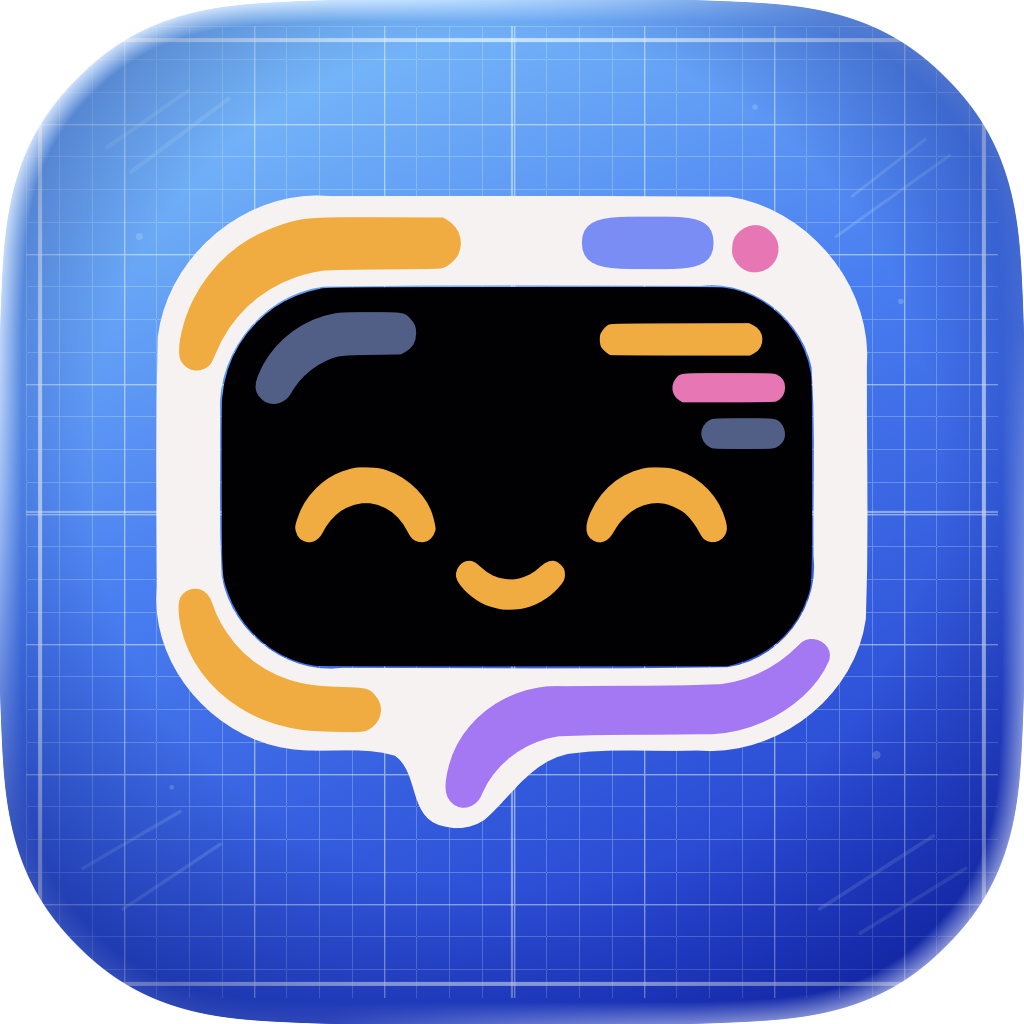
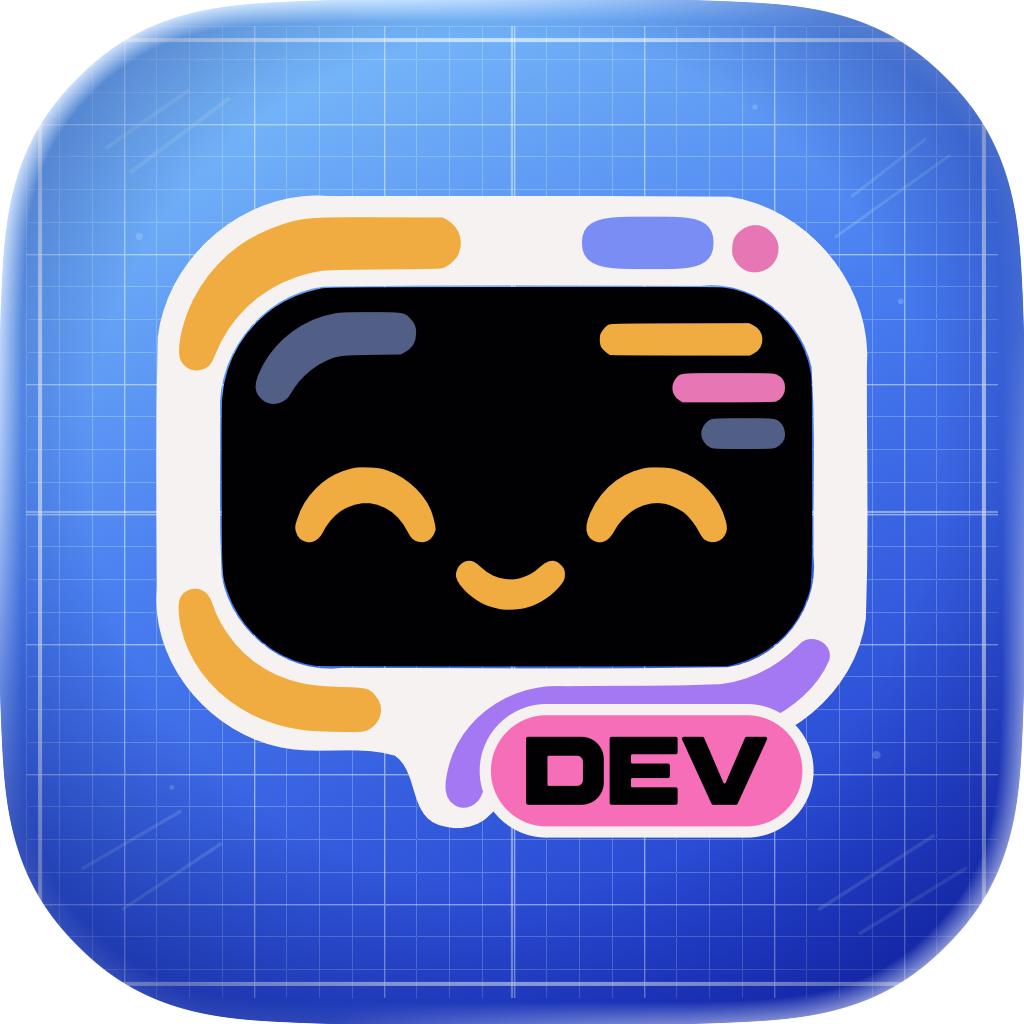
feat(desktop): a development shell says it is Dev
A shell built from source looked exactly like the installed app. A
development shell (any build but Release, or one started with --dev) now
has the stage Dev:

- its window icon is the dev icon, now with a DEV sticker in the HAL C2
  font, and on Linux it runs as hal-c2-dev with its own hidden desktop
  entry, since Wayland docks find a window's icon through its app id
- Environment identification shows "DEV" after the wordmark (Artwork) or
  a Dev pill (Version pill), as it already did for a Nightly MC
- the window title reads "HAL-C2 (Dev)", or "HAL-C2 (Nightly)"

Changed region(s): [[0.4688, 0.6875, 0.8125, 0.8438]]

diff --git a/apps/desktop-qt/qml/HalC2/Bricks/HalC2Wordmark.qml b/apps/desktop-qt/qml/HalC2/Bricks/HalC2Wordmark.qml
@@ -3,17 +3,20 @@ import QtQuick.Shapes
 
 // The HAL-C2 logotype (assets/brand/hal-c2-logotype.svg): "HAL-" and "C2" set
 // in the HAL C2 font and outlined, filled as a Shape so it scales crisply.
-// `size` is its height; the width follows the mark.
+// `size` is its height; the width follows the mark. `dev` adds "DEV" in the
+// same font, the mark of a development shell (StageController).
 Item {
     id: mark
 
     property real size: 10
+    property bool dev: false
     property color halColor: "#fba919"
     property color c2Color: "#768efb"
-    // The outlines are in font units: 4482 wide, cap height 700.
+    property color devColor: "#f76eb8"
+    // The outlines are in font units: 4482 wide (7244 with DEV), cap height 700.
     readonly property real unit: size / 700
 
-    implicitWidth: 4482 * unit
+    implicitWidth: (dev ? 7244 : 4482) * unit
     implicitHeight: size
     Accessible.ignored: true
 
@@ -39,6 +42,25 @@ Item {
 
             PathSvg {
                 path: "M3682 175Q3682 183 3676 189Q3670 195 3662 195H3187Q3162 195 3144.5 212.5Q3127 230 3127 255V445Q3127 470 3144.5 487.5Q3162 505 3187 505H3662Q3670 505 3676 511Q3682 517 3682 525V680Q3682 688 3676 694Q3670 700 3662 700H3142Q3047 700 2979.5 632.5Q2912 565 2912 470V230Q2912 135 2979.5 67.5Q3047 0 3142 0H3662Q3670 0 3676 6Q3682 12 3682 20ZM3742 20Q3742 12 3748 6Q3754 0 3762 0H4332Q4394 0 4438 44Q4482 88 4482 150V255Q4482 326 4432 375.5Q4382 425 4312 425H4002Q3986 425 3974 436.5Q3962 448 3962 465V480Q3962 496 3974 508Q3986 520 4002 520H4462Q4470 520 4476 526Q4482 532 4482 540V680Q4482 688 4476 694Q4470 700 4462 700H3762Q3754 700 3748 694Q3742 688 3742 680V445Q3742 374 3792 324.5Q3842 275 3912 275H4222Q4238 275 4250 263.5Q4262 252 4262 235V220Q4262 204 4250 192Q4238 180 4222 180H3762Q3754 180 3748 174Q3742 168 3742 160Z"
+            }
+        }
+    }
+
+    Shape {
+        objectName: "devMark"
+        visible: mark.dev
+        preferredRendererType: Shape.CurveRenderer
+        transform: Scale {
+            xScale: mark.unit
+            yScale: mark.unit
+        }
+
+        ShapePath {
+            strokeWidth: -1
+            fillColor: mark.devColor
+
+            PathSvg {
+                path: "M4982 493C4982 500 4987 505 4994 505L5287 505C5320 505 5347 478 5347 445L5347 255C5347 222 5320 195 5287 195L4994 195C4987 195 4982 200 4982 207L4982 493ZM4762 20C4762 9 4771 0 4782 0L5332 0C5459 0 5562 103 5562 230L5562 470C5562 597 5459 700 5332 700L4782 700C4771 700 4762 691 4762 680L4762 20ZM5642 700C5631 700 5622 691 5622 680L5622 20C5622 9 5631 0 5642 0L6302 0C6313 0 6322 9 6322 20L6322 160C6322 171 6313 180 6302 180L5854 180C5847 180 5842 185 5842 192L5842 263C5842 270 5847 275 5854 275L6222 275C6233 275 6242 284 6242 295L6242 405C6242 416 6233 425 6222 425L5854 425C5847 425 5842 430 5842 437L5842 508C5842 515 5847 520 5854 520L6302 520C6313 520 6322 529 6322 540L6322 680C6322 691 6313 700 6302 700L5642 700ZM6368 28C6367 25 6366 23 6366 20C6366 9 6374 0 6386 0L6577 0C6585 0 6592 5 6595 12L6794 474C6798 484 6812 484 6816 474L7015 12C7018 5 7025 0 7033 0L7224 0C7236 0 7244 9 7244 20C7244 23 7243 25 7242 28L6940 688C6937 695 6930 700 6922 700L6688 700C6680 700 6673 695 6670 688L6368 28Z"
             }
         }
     }

diff --git a/apps/desktop-qt/qml/HalC2/Bricks/ShellWindow.qml b/apps/desktop-qt/qml/HalC2/Bricks/ShellWindow.qml
@@ -36,6 +36,8 @@ Window {
     readonly property real zoom: Shell.state.layout ? (Shell.state.layout.zoom ?? 1) : 1
     // Where the window is (NavigationController).
     readonly property var route: Shell.state.route ?? null
+    // "HAL-C2 (Dev)" or "HAL-C2 (Nightly)" for a build that is not a release (StageController).
+    readonly property string appName: Shell.state.stage && Shell.state.stage.label ? qsTr("HAL-C2 (%1)").arg(Shell.state.stage.label) : qsTr("HAL-C2")
     readonly property bool settingsActive: route !== null && route.kind === "settings"
     // The settings section showing (js/settingsPages.js): layouts show
     // SettingsHost and hide the composer while settingsActive, and CentreHost
@@ -71,7 +73,7 @@ Window {
     minimumWidth: 640
     minimumHeight: 400
     visible: true
-    title: route !== null && route.title ? qsTr("%1 — HAL-C2").arg(route.title) : qsTr("HAL-C2")
+    title: route !== null && route.title ? qsTr("%1 — %2").arg(route.title, appName) : appName
     color: Theme.windowTransparent ? "transparent" : Theme.palette.color("chrome", "#0b0b0d")
     opacity: Theme.windowOpacity
     flags: Theme.frameless ? Qt.Window | Qt.FramelessWindowHint : Qt.Window

diff --git a/apps/desktop-qt/qml/HalC2/Bricks/Sidebar.qml b/apps/desktop-qt/qml/HalC2/Bricks/Sidebar.qml
@@ -224,7 +224,8 @@ Rectangle {
             visible: sidebar.showBrand
 
             // A Nightly MC marks the band (StageController): a night sky, or
-            // a pill by the wordmark, as Environment identification says.
+            // a pill by the wordmark, as Environment identification says. A
+            // development shell's artwork is "DEV" in the wordmark.
             Rectangle {
                 objectName: "stageArtwork"
                 anchors.fill: parent
@@ -277,6 +278,7 @@ Rectangle {
 
                 x: 52
                 size: 11
+                dev: sidebar.stage !== null && sidebar.stage.artwork === "dev"
                 anchors.verticalCenter: parent.verticalCenter
             }
 

diff --git a/apps/desktop-qt/qml/HalC2/Bricks/WelcomeWizard.qml b/apps/desktop-qt/qml/HalC2/Bricks/WelcomeWizard.qml
@@ -120,6 +120,7 @@ Item {
                     }
                     HalC2Wordmark {
                         size: 14
+                        dev: Shell.state.stage?.artwork === "dev"
                         Accessible.name: "HAL-C2"
                     }
                 }

diff --git a/apps/desktop-qt/tests/native/features/AppearanceRowsSteps.cpp b/apps/desktop-qt/tests/native/features/AppearanceRowsSteps.cpp
@@ -13,6 +13,7 @@
 #include "NavigationController.h"
 #include "RightPanelController.h"
 #include "SettingsController.h"
+#include "StageController.h"
 #include "World.h"
 
 namespace {
@@ -150,7 +151,8 @@ const Steps steps([] {
     untouched(world, {QStringLiteral("interface"), QStringLiteral("prompt"), QStringLiteral("code")});
   });
 
-  // Environment identification: how a Nightly MC marks the sidebar's brand band.
+  // Environment identification: how a development shell or a Nightly MC marks
+  // the sidebar's brand band.
   const auto sidebar = [](World& world) -> Brick& {
     if (!world.brick) {
       world.brick = std::make_unique<Brick>(world, "import QtQuick\nimport HalC2.Bricks\nSidebar { showBrand: true; height: 600 }\n", QSize(256, 600));
@@ -177,17 +179,41 @@ const Steps steps([] {
     world.waitFor([&] { return world.state(QStringLiteral("stage")).toMap().value(QStringLiteral("label")) == QLatin1String("Nightly"); },
                   [&] { return QStringLiteral("the Nightly stage; it is %1").arg(show(world.state(QStringLiteral("stage")))); });
   });
-  const auto marks = [sidebar](World& world, bool artwork, bool pill) {
+  struct AppStage {
+    ~AppStage() { stage::setAppStage(QString()); }
+  };
+  step(QStringLiteral("the app's own stage is %1").arg(kQuoted), [](World& world, const Captures& c, const Table&) {
+    world.mc.part<AppStage>();
+    stage::setAppStage(c[0]);
+    // Set before the first window in the app; here the store's next change republishes it.
+    world.mc.send({{QStringLiteral("t"), QStringLiteral("shell.environment")},
+                     {QStringLiteral("id"), world.mc.subscribers(QStringLiteral("shell")).value(0)},
+                     {QStringLiteral("mc"), world.mc.name},
+                     {QStringLiteral("environment"), QJsonObject{{QStringLiteral("environmentId"), world.mc.environmentId},
+                                                                 {QStringLiteral("serverVersion"), QStringLiteral("0.9.0")},
+                                                                 {QStringLiteral("capabilities"), world.mc.capabilities}}}});
+    world.sync();
+    world.waitFor([&] { return world.state(QStringLiteral("stage")).toMap().value(QStringLiteral("label")) == c[0]; },
+                  [&] { return QStringLiteral("the %1 stage; it is %2").arg(c[0], show(world.state(QStringLiteral("stage")))); });
+  });
+  // The marks the sidebar draws: the night sky, "DEV" in the wordmark, the pill (and its label).
+  const auto marks = [sidebar](World& world, bool sky, bool dev, const QString& pill) {
     Brick& brick = sidebar(world);
     brick.grab();
-    const bool drawnArtwork = brick.item(QStringLiteral("stageArtwork"))->isVisible();
-    const bool drawnPill = brick.item(QStringLiteral("stagePill"))->isVisible() && brick.shows(QStringLiteral("Nightly"));
-    expect(drawnArtwork == artwork && drawnPill == pill,
-           QStringLiteral("the sidebar draws the artwork: %1, the pill: %2; the stage is %3").arg(drawnArtwork).arg(drawnPill).arg(show(world.state(QStringLiteral("stage")))));
+    const bool drawnSky = brick.item(QStringLiteral("stageArtwork"))->isVisible();
+    const bool drawnDev = brick.item(QStringLiteral("devMark"))->isVisible();
+    const bool drawnPill = brick.item(QStringLiteral("stagePill"))->isVisible();
+    expect(drawnSky == sky && drawnDev == dev && drawnPill == !pill.isEmpty() && (pill.isEmpty() || brick.shows(pill)),
+           QStringLiteral("the sidebar draws the night sky: %1, DEV: %2, the pill: %3; the stage is %4")
+               .arg(drawnSky)
+               .arg(drawnDev)
+               .arg(drawnPill)
+               .arg(show(world.state(QStringLiteral("stage")))));
   };
-  step(QStringLiteral("the app shows the Nightly artwork"), [marks](World& world, const Captures&, const Table&) { marks(world, true, false); });
-  step(QStringLiteral("the app shows a Nightly version pill"), [marks](World& world, const Captures&, const Table&) { marks(world, false, true); });
-  step(QStringLiteral("the app shows no environment marker"), [marks](World& world, const Captures&, const Table&) { marks(world, false, false); });
+  step(QStringLiteral("the app shows the Nightly artwork"), [marks](World& world, const Captures&, const Table&) { marks(world, true, false, {}); });
+  step(QStringLiteral("the app shows a (Nightly|Dev) version pill"), [marks](World& world, const Captures& c, const Table&) { marks(world, false, false, c[0]); });
+  step(QStringLiteral("the app shows \"DEV\" by the wordmark"), [marks](World& world, const Captures&, const Table&) { marks(world, false, true, {}); });
+  step(QStringLiteral("the app shows no environment marker"), [marks](World& world, const Captures&, const Table&) { marks(world, false, false, {}); });
 
   // Motion: the right panel as the desktop draws it, on a thread.
   const auto panelBrick = [](World& world) -> Brick& {

diff --git a/apps/desktop-qt/src/main.cpp b/apps/desktop-qt/src/main.cpp
@@ -1,5 +1,6 @@
 #include <QCommandLineParser>
 #include <QDir>
+#include <QFile>
 #include <QFileInfo>
 #include <QGuiApplication>
 #include <QIcon>
@@ -28,6 +29,7 @@
 #include "ShellRuntime.h"
 #include "ShellWindows.h"
 #include "SingleInstance.h"
+#include "StageController.h"
 #include "StoragePaths.h"
 #include "ThemeStore.h"
 
@@ -53,6 +55,31 @@ QString resolveQmlSourceDir(const QString& override) {
   }
   return QStringLiteral(HAL_C2_QML_SOURCE_DIR);
 }
+
+#ifdef Q_OS_LINUX
+// Wayland docks and bars find a window's icon through the desktop entry its app
+// id names, not the icon the window sets. A development shell has its own id,
+// so it gets its own entry: the dev icon, hidden from launchers.
+void installDevDesktopEntry(const QString& appId, const QString& iconSource) {
+  const QDir data(QStandardPaths::writableLocation(QStandardPaths::GenericDataLocation));
+  const QString iconDir = data.absoluteFilePath(QStringLiteral("icons/hicolor/1024x1024/apps"));
+  const QString icon = QDir(iconDir).absoluteFilePath(appId + QStringLiteral(".png"));
+  if (QFileInfo(icon).size() != QFileInfo(iconSource).size()) {
+    QDir().mkpath(iconDir);
+    QFile::remove(icon);
+    QFile::copy(iconSource, icon);
+  }
+  const QByteArray entry = QStringLiteral("[Desktop Entry]\nType=Application\nName=HAL-C2 (Dev)\nExec=%1 --dev\nIcon=%2\n"
+                                          "NoDisplay=true\nStartupWMClass=%2\n")
+                               .arg(QCoreApplication::applicationFilePath(), appId)
+                               .toUtf8();
+  QFile file(data.absoluteFilePath(QStringLiteral("applications/%1.desktop").arg(appId)));
+  if (file.open(QIODevice::ReadOnly) && file.readAll() == entry) return;
+  file.close();
+  QDir().mkpath(QFileInfo(file).absolutePath());
+  if (file.open(QIODevice::WriteOnly | QIODevice::Truncate)) file.write(entry);
+}
+#endif
 
 QString resolveDefaultHostEntry() {
   const QString configured = QStringLiteral(HAL_C2_HOST_ENTRY);
@@ -84,13 +111,13 @@ int main(int argc, char* argv[]) {
   QCoreApplication::setOrganizationDomain(QStringLiteral("hal-c2.example"));
   QCoreApplication::setApplicationName(QStringLiteral("hal-c2"));
   QCoreApplication::setApplicationVersion(QStringLiteral(HAL_C2_APP_VERSION));
-  // Stable app id so compositor rules (blur, opacity, workspace) can target it.
+  // Stable app id so compositor rules (blur, opacity, workspace) can target it;
+  // a development shell is hal-c2-dev (below).
   QGuiApplication::setDesktopFileName(QStringLiteral("hal-c2"));
 
   QGuiApplication app(argc, argv);
   // Closing a window closes only it; the last one quits (NativeShell::lastWindowClosed).
   QGuiApplication::setQuitOnLastWindowClosed(false);
-  QGuiApplication::setWindowIcon(QIcon(QStringLiteral(":/hal-c2/app-icon.png")));
   useSoftwareRenderingWithoutDisplay();
 
   QCommandLineParser parser;
@@ -133,8 +160,20 @@ int main(int argc, char* argv[]) {
                      nodeOption, localFolderImportOption, appIdOption});
   ScriptedRun::addOptions(parser);
   parser.process(app);
+  // A shell built from source, or one on the development profile, is Dev: its
+  // own icon and app id (hal-c2-dev), and "DEV" by the wordmark
+  // (StageController), so it is never mistaken for the installed app.
+  const bool dev = HAL_C2_DEV_BUILD || parser.isSet(devOption);
+  stage::setAppStage(dev ? QStringLiteral("Dev") : QString());
+  const bool devIcon = dev && QFileInfo::exists(QStringLiteral(HAL_C2_DEV_ICON));
+  QGuiApplication::setWindowIcon(QIcon(devIcon ? QStringLiteral(HAL_C2_DEV_ICON) : QStringLiteral(":/hal-c2/app-icon.png")));
   if (parser.isSet(appIdOption) && !parser.value(appIdOption).trimmed().isEmpty()) {
     QGuiApplication::setDesktopFileName(parser.value(appIdOption).trimmed());
+  } else if (dev) {
+    QGuiApplication::setDesktopFileName(QStringLiteral("hal-c2-dev"));
+#ifdef Q_OS_LINUX
+    if (devIcon) installDevDesktopEntry(QGuiApplication::desktopFileName(), QStringLiteral(HAL_C2_DEV_ICON));
+#endif
   }
 
   const StoragePaths storage = resolveStoragePaths(

diff --git a/apps/desktop-qt/src/native/StageController.cpp b/apps/desktop-qt/src/native/StageController.cpp
@@ -1,9 +1,12 @@
-// Which build the window is talking to, said at a glance: a Nightly MC marks
-// the sidebar's brand band with its artwork or a version pill, as Settings →
-// Appearance's Environment identification chooses.
+// Which build the window is, said at a glance: a development shell, or one
+// talking to a Nightly MC, marks the sidebar's brand band with its artwork or a
+// version pill, as Settings → Appearance's Environment identification chooses.
 //
-// Publishes `stage`: {label ("Nightly", or empty for a release), artwork
-// ("nightly" or null), pill ("Nightly" or null)}. The Sidebar brick draws it.
+// Publishes `stage`: {label ("Dev", "Nightly", or empty for a release), artwork
+// ("dev", "nightly" or null), pill (the label or null)}. The Sidebar brick
+// draws it; the window title carries the label.
+
+#include "StageController.h"
 
 #include <QObject>
 #include <QRegularExpression>
@@ -16,6 +19,8 @@
 #include "ShellStore.h"
 
 namespace {
+
+QString g_appStage;
 
 class StageController : public QObject, public NativeController {
 public:
@@ -35,8 +40,9 @@ public:
   bool handle(const QString&, const QVariant&) override { return false; }
 
 private:
-  // "Nightly" for a nightly or preview build of the MC.
+  // The app's own stage, else "Nightly" for a nightly or preview build of the MC.
   QString label() const {
+    if (!g_appStage.isEmpty()) return g_appStage;
     static const QRegularExpression nightly(QStringLiteral("^[^-+]+-(?:nightly|preview)\\.\\d{8}\\.\\d+$"));
     const QString version =
         m_store->environment(m_store->environmentOf(m_client->mc())).value(QLatin1String("serverVersion")).toString();
@@ -68,3 +74,7 @@ private:
 const NativeControllerRegistrar<StageController> registrar(QStringLiteral("stage"), {QStringLiteral("stage")});
 
 }  // namespace
+
+void stage::setAppStage(const QString& stage) {
+  g_appStage = stage;
+}

diff --git a/apps/desktop-qt/tests/native/tst_Features.cpp b/apps/desktop-qt/tests/native/tst_Features.cpp
@@ -100,6 +100,7 @@ const QStringList kDefaultGlobs{
     QStringLiteral("navigation/appearance.feature:Font preferences*"),
     QStringLiteral("navigation/appearance.feature:A new interface font reaches*"),
     QStringLiteral("navigation/appearance.feature:The environment can be identified*"),
+    QStringLiteral("navigation/appearance.feature:A development build is identified as Dev*"),
     QStringLiteral("navigation/appearance.feature:Panel animations*"),
     QStringLiteral("navigation/appearance.feature:Switching threads never*"),
     QStringLiteral("navigation/theme-editor.feature"),

diff --git a/apps/desktop-qt/src/native/StageController.h b/apps/desktop-qt/src/native/StageController.h
@@ -1,0 +1,11 @@
+#pragma once
+
+#include <QString>
+
+namespace stage {
+
+// The app's own stage, set by main before the first window: "Dev" for a
+// development shell, empty for a release. StageController publishes it.
+void setAppStage(const QString& stage);
+
+}  // namespace stage

diff --git a/assets/README.md b/assets/README.md
@@ -12,7 +12,7 @@ The three Icon Composer projects are the source of truth for full application ic
 
 Each project uses `text.svg` for the avatar (the mark centred in the 128pt layer box) and `background.svg` when the background is a vector layer. Additional layers use semantic names that describe their role and placement.
 
-Run `vp run icons:export` from the repository root to regenerate the tracked `*-universal-1024.png` beside each project: the Qt desktop's window icon (`prod`, via `apps/desktop-qt/CMakeLists.txt`) and its Linux desktop entry. Run `vp run icons:check` to verify that they match their sources without changing files.
+Run `vp run icons:export` from the repository root to regenerate the tracked `*-universal-1024.png` beside each project: the Qt desktop's window icon (`prod`, via `apps/desktop-qt/CMakeLists.txt`, and `dev` for a development shell, read from the checkout) and its Linux desktop entry. Run `vp run icons:check` to verify that they match their sources without changing files.
 
 Exporting requires Icon Composer 2 or newer on macOS. The script selects the newest compatible exporter from Xcode or a standalone Icon Composer installation and pins design generation 26. Set `ICON_COMPOSER_TOOL` to the full path of `Icon Composer.app/Contents/Executables/ictool` to override automatic discovery.
 
